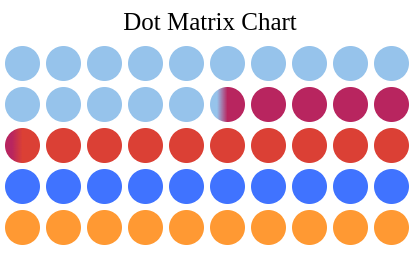
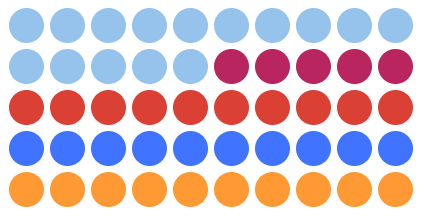
Screenshot changes

diff --git a/README.md b/README.md
@@ -7,7 +7,7 @@
 <a href="https://www.npmjs.com/package/react-dot-matrix-chart"><img src="https://badgen.net/npm/v/react-dot-matrix-chart?color=blue" alt="npm version"></a> <a href="https://www.npmjs.com/package/react-dot-matrix-chart" ><img src="https://img.shields.io/npm/dw/react-dot-matrix-chart?label=Downloads" /></a> <a href="https://github.com/KeyValueSoftwareSystems/react-dot-matrix-chart"><img src="https://github.com/KeyValueSoftwareSystems/react-dot-matrix-chart/actions/workflows/deploy.yml/badge.svg" alt="" /></a>
 
 <div align="center">
-<img src="./screenshot.png" alt="" width="269" height="416"/>
+<img src="./screenshot.png" alt="" width="416" height="199"/>
 </div>
 
  
